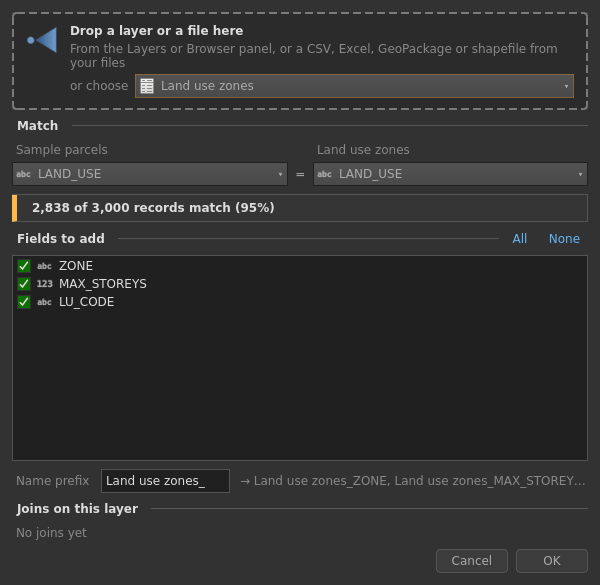
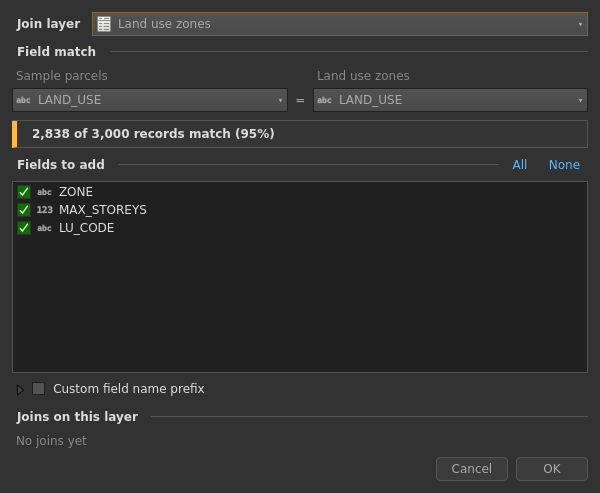
Join table: one Join layer row; Field match; QGIS's custom prefix box
- The top is just "Join layer" and its box; the drop text is gone (a file
  dropped from the file manager still works).
- "Match" is now "Field match".
- The name prefix works as in QGIS's Add Vector Join window: a collapsed
  "Custom field name prefix" box, unticked and greyed with QGIS's default
  prefix (none is stored, so QGIS uses the join layer's name and _); ticking
  it opens the box and the prefix can be changed.

Claude-Session: https://claude.ai/code/session_01WzmTZVv7prW4LhcmkwE1Ve

diff --git a/ui/explorer_join.py b/ui/explorer_join.py
@@ -6,14 +6,16 @@
 Join Table (Attribute Explorer): add a QGIS layer join, as Layer
 Properties › Joins does, from one window.
 
-- The join layer is dropped on the window (a layer from the Layers panel,
-  a Browser panel item or a file from the file manager) or picked in the
-  box.  A file becomes a layer of the project when the join is added.
+- The join layer is picked in the box, or a file (CSV, Excel, GeoPackage,
+  shapefile) is dropped on the window from the file manager; a file becomes
+  a layer of the project when the join is added.
 - The two match fields are guessed (a field name both layers share); the
   window counts in the background how many records will match, with the
   same rules as QGIS (core/joins.py).
-- The fields to add, their name prefix and the names already in the layer
-  (QGIS leaves those out) are shown before the join is made.
+- The fields to add and the names already in the layer (QGIS leaves those
+  out) are shown before the join is made.  The name prefix is QGIS's default
+  (the join layer's name and _) unless *Custom field name prefix* is ticked,
+  as in QGIS's own Add Vector Join window.
 - The joins already on the layer are listed, each with Remove.
 """
 
@@ -29,6 +31,7 @@ from qgis.core import (
     Qgis, QgsFields, QgsMimeDataUtils, QgsProject, QgsProviderRegistry,
     QgsVectorLayer, QgsVectorLayerFeatureSource, QgsVectorLayerJoinInfo,
 )
+from qgis.gui import QgsCollapsibleGroupBox
 
 from ..core import fields as F
 from ..core import joins as J
@@ -113,7 +116,6 @@ class JoinTableDialog(_Dialog):
         self.runner = JobRunner(self)
         self.counts = None               # the last match count (core/joins)
         self._pending = []               # layers from files, not in the project
-        self._prefix_edited = False
         self._count_timer = QTimer(self)
         self._count_timer.setSingleShot(True)
         self._count_timer.setInterval(200)
@@ -121,51 +123,29 @@ class JoinTableDialog(_Dialog):
         self.setAcceptDrops(True)
         self.setMinimumWidth(560)
         self.setStyleSheet(self.styleSheet() + f"""
-            QFrame#gtsDrop {{ background: {t.base};
-                border: 2px dashed {t.text_faint}; border-radius: {m.radius}px; }}
-            QFrame#gtsDrop[hover="true"] {{ background: {t.accent_soft};
-                border: 2px dashed {t.accent}; }}
-            QFrame#gtsDrop QLabel {{ background: transparent; border: none; }}
             QLabel#gtsJoinProblem {{ color: {t.danger}; }}
             QLabel#gtsJoinClash {{ color: {t.warning}; }}
         """)
 
-        # ---- join layer: drop zone + box ----
-        self.drop_zone = QFrame()
-        self.drop_zone.setObjectName("gtsDrop")
-        dz = QHBoxLayout(self.drop_zone)
-        dz.setContentsMargins(12, 10, 12, 10)
-        dz.setSpacing(12)
-        mark = QLabel()
-        mark.setPixmap(icons.native(icons.JOIN).pixmap(QSize(32, 32)))
-        dz.addWidget(mark, 0, Qt.AlignmentFlag.AlignTop)
-        texts = QVBoxLayout()
-        texts.setSpacing(4)
-        texts.addWidget(W.label("Drop a layer or a file here", "title"))
-        hint = W.label("From the Layers or Browser panel, or a CSV, Excel, "
-                       "GeoPackage or shapefile from your files", "dim")
-        hint.setWordWrap(True)
-        texts.addWidget(hint)
+        # ---- join layer (a file dropped from the file manager works too) ----
         pick = QHBoxLayout()
         pick.setSpacing(m.gap)
-        pick.addWidget(W.label("or choose", "dim"))
+        pick.addWidget(W.label("Join layer", "title"))
         self.layer_combo = W.LayerCombo(m)
         self.layer_combo.setFilters(VECTOR_LAYER_FILTER)
         self.layer_combo.setExceptedLayerList([self.layer])
         self.layer_combo.setAllowEmptyLayer(True, "Choose a layer or table")
         self.layer_combo.setLayer(None)
         pick.addWidget(self.layer_combo, 1)
-        texts.addLayout(pick)
+        self.lay.addLayout(pick)
         self.drop_problem = QLabel("")
         self.drop_problem.setObjectName("gtsJoinProblem")
         self.drop_problem.setWordWrap(True)
         self.drop_problem.setVisible(False)
-        texts.addWidget(self.drop_problem)
-        dz.addLayout(texts, 1)
-        self.lay.addWidget(self.drop_zone)
+        self.lay.addWidget(self.drop_problem)
 
-        # ---- match ----
-        self.lay.addWidget(W.section_header("Match"))
+        # ---- field match ----
+        self.lay.addWidget(W.section_header("Field match"))
         grid = QGridLayout()
         grid.setHorizontalSpacing(m.gap)
         grid.setVerticalSpacing(4)
@@ -213,9 +193,14 @@ class JoinTableDialog(_Dialog):
         self.field_list.setIconSize(QSize(m.icon, m.icon))
         self.field_list.setMinimumHeight(120)
         self.lay.addWidget(self.field_list, 1)
-        prefix_row = QHBoxLayout()
+        # QGIS's own box: unticked, the prefix is QGIS's default (greyed);
+        # ticking it opens it and the prefix can be changed
+        self.prefix_group = QgsCollapsibleGroupBox("Custom field name prefix")
+        self.prefix_group.setCheckable(True)
+        self.prefix_group.setChecked(False)
+        self.prefix_group.setCollapsed(True)
+        prefix_row = QHBoxLayout(self.prefix_group)
         prefix_row.setSpacing(m.gap)
-        prefix_row.addWidget(W.label("Name prefix", "dim"))
         self.prefix_edit = QLineEdit()
         self.prefix_edit.setFixedHeight(m.control_h)
         self.prefix_edit.setMaximumWidth(220)
@@ -225,7 +210,7 @@ class JoinTableDialog(_Dialog):
         self.names_preview = W.ElideLabel("")
         self.names_preview.setObjectName("gtsDim")
         prefix_row.addWidget(self.names_preview, 1)
-        self.lay.addLayout(prefix_row)
+        self.lay.addWidget(self.prefix_group)
         self.clash_label = QLabel("")
         self.clash_label.setObjectName("gtsJoinClash")
         self.clash_label.setWordWrap(True)
@@ -261,7 +246,8 @@ class JoinTableDialog(_Dialog):
         self.field_list.itemChanged.connect(lambda *_: self._update_names())
         self.all_link.clicked.connect(lambda: self._tick_all(True))
         self.none_link.clicked.connect(lambda: self._tick_all(False))
-        self.prefix_edit.textEdited.connect(self._on_prefix_edited)
+        self.prefix_edit.textEdited.connect(lambda *_: self._update_names())
+        self.prefix_group.toggled.connect(self._on_custom_prefix)
         self.cancel_btn.clicked.connect(self.reject)
         self.join_btn.clicked.connect(self.add_join)
 
@@ -285,7 +271,7 @@ class JoinTableDialog(_Dialog):
                 self.target_combo.set_current_name(target)
             if join:
                 self.join_combo.set_current_name(join)
-            if not self._prefix_edited:
+            if not self.prefix_group.isChecked():
                 self.prefix_edit.setText(J.default_prefix(layer.name()))
         self._fill_fields()
         self._on_match_fields()
@@ -326,7 +312,7 @@ class JoinTableDialog(_Dialog):
             for c in choices:
                 menu.addAction(c[0]).setData(c)
             act = menu.exec(self.mapToGlobal(pos) if pos is not None
-                            else self.drop_zone.mapToGlobal(self.drop_zone.rect().center()))
+                            else self.layer_combo.mapToGlobal(self.layer_combo.rect().bottomLeft()))
             if act is None:
                 return None
             choice = act.data()
@@ -338,28 +324,17 @@ class JoinTableDialog(_Dialog):
         self.set_join_layer(layer)
         return layer
 
-    def _set_hover(self, on):
-        self.drop_zone.setProperty("hover", on)
-        self.drop_zone.style().unpolish(self.drop_zone)
-        self.drop_zone.style().polish(self.drop_zone)
-
     def dragEnterEvent(self, event):
         mime = event.mimeData()
         if QgsMimeDataUtils.isUriList(mime) or mime.hasUrls():
             event.acceptProposedAction()
-            self._set_hover(True)
         else:
             event.ignore()
 
     def dragMoveEvent(self, event):
         event.acceptProposedAction()
 
-    def dragLeaveEvent(self, event):
-        self._set_hover(False)
-        super().dragLeaveEvent(event)
-
     def dropEvent(self, event):
-        self._set_hover(False)
         pos = event.position().toPoint() if hasattr(event, "position") else event.pos()
         event.acceptProposedAction()
         # the menu (several tables) must not open inside the drop itself
@@ -479,12 +454,26 @@ class JoinTableDialog(_Dialog):
         self.field_list.blockSignals(False)
         self._update_names()
 
-    def _on_prefix_edited(self, _text):
-        self._prefix_edited = True
+    def _on_custom_prefix(self, checked):
+        layer = self.join_layer()
+        if checked:
+            self.prefix_group.setCollapsed(False)
+            self.prefix_edit.setFocus()
+            self.prefix_edit.selectAll()
+        elif layer is not None:
+            self.prefix_edit.setText(J.default_prefix(layer.name()))
         self._update_names()
 
+    def custom_prefix(self):
+        return self.prefix_group.isChecked()
+
     def prefix(self):
-        return self.prefix_edit.text()
+        """The prefix the joined fields get: the custom one when ticked,
+        otherwise QGIS's default (the join layer's name and _)."""
+        if self.custom_prefix():
+            return self.prefix_edit.text()
+        layer = self.join_layer()
+        return J.default_prefix(layer.name()) if layer is not None else ""
 
     def _update_names(self):
         names = J.joined_names(self.chosen_fields(), self.prefix())
@@ -530,7 +519,9 @@ class JoinTableDialog(_Dialog):
         info.setJoinFieldName(self.join_combo.current_name())
         info.setTargetFieldName(self.target_combo.current_name())
         info.setUsingMemoryCache(True)
-        info.setPrefix(self.prefix())
+        # unticked: no prefix stored, so QGIS uses its default (as its own
+        # window does) and follows a renamed join layer
+        info.setPrefix(self.prefix_edit.text() if self.custom_prefix() else None)
         chosen = self.chosen_fields()
         if len(chosen) < len(self._field_items()):
             info.setJoinFieldNamesSubset(chosen)

diff --git a/ui/help_dialog.py b/ui/help_dialog.py
@@ -167,16 +167,17 @@ Expressions that use the old name are not changed. The ☰ menu holds
 the feature form, layer actions, copy as text, set NULL, <i>Review Unsaved
 Changes</i>, field properties and the native attribute table.</li>
 <li><b>Join table</b> (beside <i>New field</i>; no editing needed) adds a
-QGIS layer join, as <i>Layer Properties › Joins</i> does. Drop the layer or
-table on the window - from the Layers or Browser panel, or a CSV, Excel,
-GeoPackage or shapefile from your files - or choose it in the box. The match
-fields are proposed (a field name both share) and the window counts how many
-records will match before you join: values match as text (12, 12.0 and "12"
-are the same), NULL never matches, and when a join value repeats a record
-gets the last matching row. Tick the fields to add and set the name prefix
-(the layer's name and _ by default); a name the layer already has is left
-out by QGIS, and the window says so. A file becomes a layer of the project
-when you press <b>OK</b>. <i>Joins on this layer</i> lists the joins, each
+QGIS layer join, as <i>Layer Properties › Joins</i> does. Choose the
+<b>Join layer</b> in the box, or drop a CSV, Excel, GeoPackage or shapefile
+on the window from your file manager. Under <b>Field match</b> the two fields
+are proposed (a field name both share) and the window counts how many records
+will match before you join: values match as text (12, 12.0 and "12" are the
+same), NULL never matches, and when a join value repeats a record gets the
+last matching row. Tick the fields to add. The joined fields are named with
+QGIS's default prefix (the join layer's name and _) unless you tick
+<b>Custom field name prefix</b>, as in QGIS's own window; a name the layer
+already has is left out by QGIS, and the window says so. A dropped file
+becomes a layer of the project when you press <b>OK</b>. <i>Joins on this layer</i> lists the joins, each
 with Remove.</li>
 <li>Closing the explorer while the layer has unsaved edits asks: save and
 close, close and keep the layer's edits, or cancel. Nothing is discarded

diff --git a/tests/qgis/test_suite_qgis.py b/tests/qgis/test_suite_qgis.py
@@ -1064,7 +1064,16 @@ class SuiteTests(unittest.TestCase):
         self.assertEqual((dlg.target_combo.current_name(), dlg.join_combo.current_name()),
                          ("ZONE_CODE", "ZONE_CODE"))
         self.assertEqual(dlg.chosen_fields(), ["ZONE_NAME", "MAX_HEIGHT"])
+        # the prefix is QGIS's default, greyed, until Custom field name
+        # prefix is ticked (which opens the box)
         self.assertEqual(dlg.prefix(), "Zones_")
+        self.assertFalse(dlg.custom_prefix())
+        self.assertTrue(dlg.prefix_group.isCollapsed())
+        self.assertFalse(dlg.prefix_edit.isEnabled())
+        self.assertEqual(dlg.prefix_edit.text(), "Zones_")
+        dlg.prefix_group.setChecked(True)
+        self.assertFalse(dlg.prefix_group.isCollapsed())
+        self.assertTrue(dlg.prefix_edit.isEnabled())
         self.assertTrue(H.wait_for(lambda: dlg.counts is not None, 20))
         codes = [f["ZONE_CODE"] for f in base.getFeatures()]
         matched = sum(1 for c in codes if c in (1, 2, 3, 4))
@@ -1075,14 +1084,15 @@ class SuiteTests(unittest.TestCase):
         self.assertIn("compared as text", dlg.match_detail.text())
         # a name already in the layer is left out by QGIS: say so
         dlg.prefix_edit.setText("")
-        dlg._on_prefix_edited("")
+        dlg._update_names()
         dlg.field_list.item(0).setCheckState(Qt.CheckState.Unchecked)
         self.assertEqual(J.clashes(base.fields(), dlg.chosen_fields(), ""), [])
         self.assertEqual(J.clashes(base.fields(), ["ZONE_CODE", "LAND_USE"], ""),
                          ["ZONE_CODE", "LAND_USE"])
         dlg.field_list.item(0).setCheckState(Qt.CheckState.Checked)
         dlg.prefix_edit.setText("Z_")
-        dlg._on_prefix_edited("Z_")
+        dlg._update_names()
+        self.assertEqual(dlg.prefix(), "Z_")
         dlg.field_list.item(1).setCheckState(Qt.CheckState.Unchecked)
         self.assertEqual(dlg.chosen_fields(), ["ZONE_NAME"])
         self.assertTrue(dlg.join_btn.isEnabled())

diff --git a/README.md b/README.md
@@ -174,12 +174,13 @@ attribute table and every other QGIS tool.
   layer actions, copy rows as text, copy cell, set NULL, review unsaved
   changes, field properties, native attribute table.
 - **Join table** (beside *New field*, no editing needed) adds a QGIS layer
-  join, as *Layer Properties › Joins* does. Drop a layer or table on the
-  window (Layers or Browser panel, or a CSV, Excel, GeoPackage or shapefile
-  from your files) or choose it in the box; the match fields are proposed and
-  the window counts the records that will match before you join (values
-  match as text, NULL never matches, a repeated join value gives the last
-  matching row). Pick the fields to add and their name prefix; names the
+  join, as *Layer Properties › Joins* does. Choose the *Join layer* in the
+  box (or drop a CSV, Excel, GeoPackage or shapefile on the window from your
+  file manager); under *Field match* the two fields are proposed and the
+  window counts the records that will match before you join (values match as
+  text, NULL never matches, a repeated join value gives the last matching
+  row). Pick the fields to add; the names get QGIS's default prefix unless
+  *Custom field name prefix* is ticked, as in QGIS's own window. Names the
   layer already has are flagged, since QGIS leaves them out. *Joins on this
   layer* lists the joins with Remove.
 
